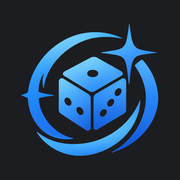
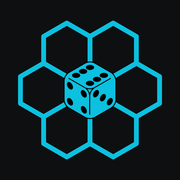
Add files via upload

diff --git a/changelog.html b/changelog.html
@@ -1,0 +1,108 @@
+<!doctype html>
+<html lang="en">
+<head>
+  <meta charset="utf-8">
+  <meta name="viewport" content="width=device-width, initial-scale=1">
+  <title>What's New · D2 Roll Check</title>
+  <meta name="description" content="Recent updates and new features on D2 Roll Check, the Destiny 2 god roll checker.">
+  <link rel="canonical" href="https://d2rollcheck.com/changelog.html">
+  <link rel="icon" href="/favicon.ico" sizes="16x16 32x32 48x48">
+  <link rel="icon" href="/icon-48.png" sizes="48x48" type="image/png">
+  <link rel="icon" href="/icon-96.png" sizes="96x96" type="image/png">
+  <link rel="icon" href="/icon-192.png" sizes="192x192" type="image/png">
+  <link rel="icon" href="/icon.svg" type="image/svg+xml">
+  <link rel="apple-touch-icon" href="/icon-180.png">
+  <meta name="theme-color" content="#0e0f11">
+  <!-- Link preview for Discord, Reddit, iMessage and so on -->
+  <meta property="og:type" content="website">
+  <meta property="og:site_name" content="D2 Roll Check">
+  <meta property="og:title" content="What's New · D2 Roll Check">
+  <meta property="og:description" content="Recent updates and new features on D2 Roll Check, the Destiny 2 god roll checker.">
+  <meta property="og:url" content="https://d2rollcheck.com/changelog.html">
+  <meta property="og:image" content="https://d2rollcheck.com/og.png">
+  <meta property="og:image:width" content="1200">
+  <meta property="og:image:height" content="630">
+  <meta property="og:image:alt" content="D2 Roll Check: Fatebringer scoring 100 out of 100, God roll">
+  <meta name="twitter:card" content="summary_large_image">
+  <link rel="preconnect" href="https://fonts.googleapis.com">
+  <link rel="preconnect" href="https://fonts.gstatic.com" crossorigin>
+  <link href="https://fonts.googleapis.com/css2?family=Barlow+Semi+Condensed:wght@600;700&family=IBM+Plex+Sans:wght@400;500;600&display=swap" rel="stylesheet">
+  <link rel="stylesheet" href="style.css">
+</head>
+<body>
+  <header class="top">
+    <div class="bar">
+      <h1 class="brand"><img src="icon.svg" alt="" width="26" height="26">D2 Roll Check</h1>
+      <nav class="tabs" aria-label="Pages">
+        <a href="./">Score a roll</a>
+        <a href="inventory.html">My inventory</a>
+        <a href="armor.html">Armor</a>
+        <a href="xur.html">Xûr</a>
+        <a href="compare.html">Compare</a>
+        <a href="guide.html">Guide</a>
+      </nav>
+      <a id="tip" class="tip" href="https://ko-fi.com/halolegend159" target="_blank" rel="noopener" hidden>Tip jar</a>
+    </div>
+  </header>
+
+  <main id="app">
+    <article class="about guide changes">
+      <h1>What's new</h1>
+      <p>Found a bug or have an idea? <a href="https://github.com/HaloLegend159/Roll-Scorer/issues" target="_blank" rel="noopener">Open an issue on GitHub</a>.</p>
+
+      <h2>New logo and loading screens <time datetime="2026-10-09">Oct 9, 2026</time></h2>
+      <ul>
+        <li>New logo.</li>
+        <li>New loading animations across the site.</li>
+        <li>Only perfect 100s are god rolls now; 90 to 99 is "Excellent".</li>
+        <li>"Shard" is now "dismantle" everywhere.</li>
+      </ul>
+
+      <h2>Cleaner pages <time datetime="2026-10-08">Oct 8, 2026</time></h2>
+      <ul>
+        <li>Weapon pages show the gun's in-game screenshot.</li>
+        <li>Home page lists the most used gun of each weapon type.</li>
+        <li>Shorter, clearer text across the site.</li>
+      </ul>
+
+      <h2>Armor tab (beta) <time datetime="2026-10-08">Oct 8, 2026</time></h2>
+      <ul>
+        <li>Sort your armor by the stats your build needs.</li>
+        <li>Flags pieces you can shard because you own a better one of the same kind.</li>
+        <li>Shows how close you are to each set bonus.</li>
+      </ul>
+
+      <h2>A page for every weapon <time datetime="2026-10-08">Oct 8, 2026</time></h2>
+      <ul>
+        <li>Every gun has its own page with its PvE and PvP god rolls, best trait combos and how to get it.</li>
+        <li>New <a href="guide.html">guide</a> to how rolls are scored.</li>
+      </ul>
+
+      <h2>New look <time datetime="2026-10-07">Oct 7, 2026</time></h2>
+      <ul>
+        <li>Redesigned site with a new logo.</li>
+        <li>My inventory can sort by your own kill counts.</li>
+      </ul>
+
+      <h2>Earlier</h2>
+      <ul>
+        <li>Score your whole vault, find your best copy of each gun, and switch perks in game.</li>
+        <li>Xûr's weapons, scored each week.</li>
+        <li>Compare guns side by side and see usage rankings by type.</li>
+        <li>Weapon stats, usage over time and favorites.</li>
+      </ul>
+    </article>
+  </main>
+
+  <footer class="foot">
+    <p>Made by Halo Legend 159 · <a href="changelog.html">What's new</a> · <a href="https://github.com/HaloLegend159/Roll-Scorer/issues" target="_blank" rel="noopener">Report a bug</a> · <a href="w/">All weapons</a> · <a href="guide.html">Guide</a></p>
+    <p>Roll data from the <a href="https://github.com/48klocs/dim-wish-list-sources">DIM community wish list</a>. Weapon data from the Bungie API. Not affiliated with Bungie.</p>
+    <p id="meta" class="muted"></p>
+  </footer>
+
+  <script>
+    var tip = document.getElementById('tip');
+    if (tip && !/YOUR-NAME/.test(tip.getAttribute('href'))) tip.hidden = false;
+  </script>
+</body>
+</html>

diff --git a/index.html b/index.html
@@ -6,9 +6,12 @@
   <title>D2 Roll Check · Destiny 2 God Roll Checker and Weapon Roll Scorer</title>
   <meta name="description" content="Check if your Destiny 2 weapon is a god roll. Pick its perks and get a score out of 100 based on community recommended rolls and what players actually use, or sign in to score your whole vault.">
   <link rel="canonical" href="https://d2rollcheck.com/">
-  <link rel="icon" href="icon-48.png" sizes="48x48" type="image/png">
-  <link rel="icon" href="icon.svg" type="image/svg+xml">
-  <link rel="apple-touch-icon" href="icon-180.png">
+  <link rel="icon" href="/favicon.ico" sizes="16x16 32x32 48x48">
+  <link rel="icon" href="/icon-48.png" sizes="48x48" type="image/png">
+  <link rel="icon" href="/icon-96.png" sizes="96x96" type="image/png">
+  <link rel="icon" href="/icon-192.png" sizes="192x192" type="image/png">
+  <link rel="icon" href="/icon.svg" type="image/svg+xml">
+  <link rel="apple-touch-icon" href="/icon-180.png">
   <meta name="theme-color" content="#0e0f11">
   <!-- Link preview for Discord, Reddit, iMessage and so on -->
   <meta property="og:type" content="website">

diff --git a/guide.html b/guide.html
@@ -6,9 +6,12 @@
   <title>What Is a God Roll in Destiny 2? Roll Guide · D2 Roll Check</title>
   <meta name="description" content="What makes a god roll in Destiny 2, how PvE and PvP rolls differ, what to keep and what to dismantle, and how D2 Roll Check scores every weapon roll out of 100.">
   <link rel="canonical" href="https://d2rollcheck.com/guide.html">
-  <link rel="icon" href="icon-48.png" sizes="48x48" type="image/png">
-  <link rel="icon" href="icon.svg" type="image/svg+xml">
-  <link rel="apple-touch-icon" href="icon-180.png">
+  <link rel="icon" href="/favicon.ico" sizes="16x16 32x32 48x48">
+  <link rel="icon" href="/icon-48.png" sizes="48x48" type="image/png">
+  <link rel="icon" href="/icon-96.png" sizes="96x96" type="image/png">
+  <link rel="icon" href="/icon-192.png" sizes="192x192" type="image/png">
+  <link rel="icon" href="/icon.svg" type="image/svg+xml">
+  <link rel="apple-touch-icon" href="/icon-180.png">
   <meta name="theme-color" content="#0e0f11">
   <!-- Link preview for Discord, Reddit, iMessage and so on -->
   <meta property="og:type" content="website">

diff --git a/armor.html b/armor.html
@@ -6,9 +6,12 @@
   <title>Armor · D2 Roll Check</title>
   <meta name="description" content="Sign in with Bungie to sort your Destiny 2 armor by the stats your build needs, find duplicates to dismantle and see which set bonuses you can complete.">
   <link rel="canonical" href="https://d2rollcheck.com/armor.html">
-  <link rel="icon" href="icon-48.png" sizes="48x48" type="image/png">
-  <link rel="icon" href="icon.svg" type="image/svg+xml">
-  <link rel="apple-touch-icon" href="icon-180.png">
+  <link rel="icon" href="/favicon.ico" sizes="16x16 32x32 48x48">
+  <link rel="icon" href="/icon-48.png" sizes="48x48" type="image/png">
+  <link rel="icon" href="/icon-96.png" sizes="96x96" type="image/png">
+  <link rel="icon" href="/icon-192.png" sizes="192x192" type="image/png">
+  <link rel="icon" href="/icon.svg" type="image/svg+xml">
+  <link rel="apple-touch-icon" href="/icon-180.png">
   <meta name="theme-color" content="#0e0f11">
   <!-- Link preview for Discord, Reddit, iMessage and so on -->
   <meta property="og:type" content="website">

diff --git a/inventory.html b/inventory.html
@@ -6,9 +6,12 @@
   <title>My inventory · D2 Roll Check</title>
   <meta name="description" content="Sign in with Bungie to score every weapon in your Destiny 2 vault and find what to keep or dismantle.">
   <link rel="canonical" href="https://d2rollcheck.com/inventory.html">
-  <link rel="icon" href="icon-48.png" sizes="48x48" type="image/png">
-  <link rel="icon" href="icon.svg" type="image/svg+xml">
-  <link rel="apple-touch-icon" href="icon-180.png">
+  <link rel="icon" href="/favicon.ico" sizes="16x16 32x32 48x48">
+  <link rel="icon" href="/icon-48.png" sizes="48x48" type="image/png">
+  <link rel="icon" href="/icon-96.png" sizes="96x96" type="image/png">
+  <link rel="icon" href="/icon-192.png" sizes="192x192" type="image/png">
+  <link rel="icon" href="/icon.svg" type="image/svg+xml">
+  <link rel="apple-touch-icon" href="/icon-180.png">
   <meta name="theme-color" content="#0e0f11">
   <!-- Link preview for Discord, Reddit, iMessage and so on -->
   <meta property="og:type" content="website">

diff --git a/xur.html b/xur.html
@@ -6,9 +6,12 @@
   <title>Xûr · D2 Roll Check</title>
   <meta name="description" content="Every weapon Xûr is selling this week in Destiny 2, scored against community recommended rolls.">
   <link rel="canonical" href="https://d2rollcheck.com/xur.html">
-  <link rel="icon" href="icon-48.png" sizes="48x48" type="image/png">
-  <link rel="icon" href="icon.svg" type="image/svg+xml">
-  <link rel="apple-touch-icon" href="icon-180.png">
+  <link rel="icon" href="/favicon.ico" sizes="16x16 32x32 48x48">
+  <link rel="icon" href="/icon-48.png" sizes="48x48" type="image/png">
+  <link rel="icon" href="/icon-96.png" sizes="96x96" type="image/png">
+  <link rel="icon" href="/icon-192.png" sizes="192x192" type="image/png">
+  <link rel="icon" href="/icon.svg" type="image/svg+xml">
+  <link rel="apple-touch-icon" href="/icon-180.png">
   <meta name="theme-color" content="#0e0f11">
   <!-- Link preview for Discord, Reddit, iMessage and so on -->
   <meta property="og:type" content="website">

diff --git a/compare.html b/compare.html
@@ -6,9 +6,12 @@
   <title>Compare · D2 Roll Check</title>
   <meta name="description" content="Compare Destiny 2 weapons side by side and see how guns of each type rank by real usage.">
   <link rel="canonical" href="https://d2rollcheck.com/compare.html">
-  <link rel="icon" href="icon-48.png" sizes="48x48" type="image/png">
-  <link rel="icon" href="icon.svg" type="image/svg+xml">
-  <link rel="apple-touch-icon" href="icon-180.png">
+  <link rel="icon" href="/favicon.ico" sizes="16x16 32x32 48x48">
+  <link rel="icon" href="/icon-48.png" sizes="48x48" type="image/png">
+  <link rel="icon" href="/icon-96.png" sizes="96x96" type="image/png">
+  <link rel="icon" href="/icon-192.png" sizes="192x192" type="image/png">
+  <link rel="icon" href="/icon.svg" type="image/svg+xml">
+  <link rel="apple-touch-icon" href="/icon-180.png">
   <meta name="theme-color" content="#0e0f11">
   <!-- Link preview for Discord, Reddit, iMessage and so on -->
   <meta property="og:type" content="website">

diff --git a/style.css b/style.css
@@ -575,7 +575,7 @@ pre.debug { margin-top: 1rem; padding: 1rem; background: var(--panel); border: 1
 .hero p { max-width: 36rem; }
 
 /* Site name in the logo's blue */
-.brand, a.brand { color: #4aa3f8; }
+.brand, a.brand { color: #0cc0df; }
 
 /* Score: white number, the grade as a solid tag in its color, neutral bars */
 .score { border-top: 3px solid var(--grade, var(--line-strong)); }
